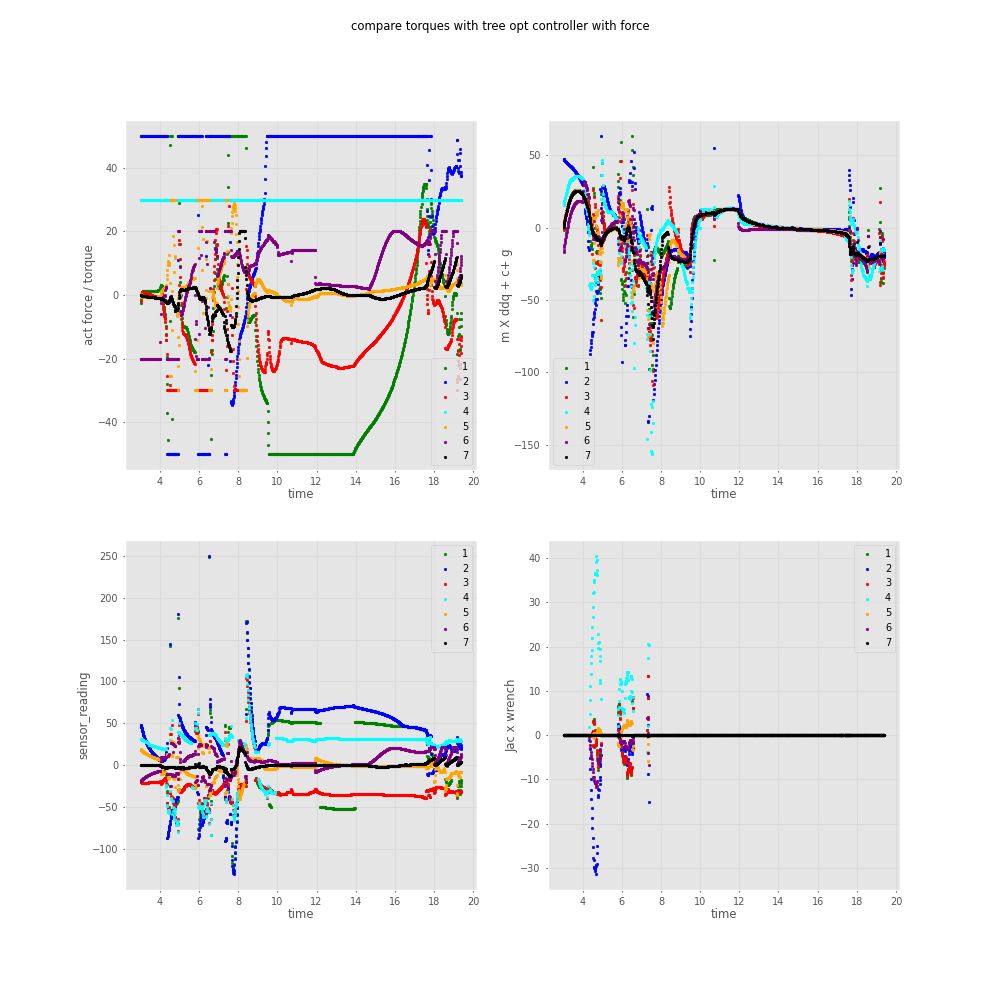
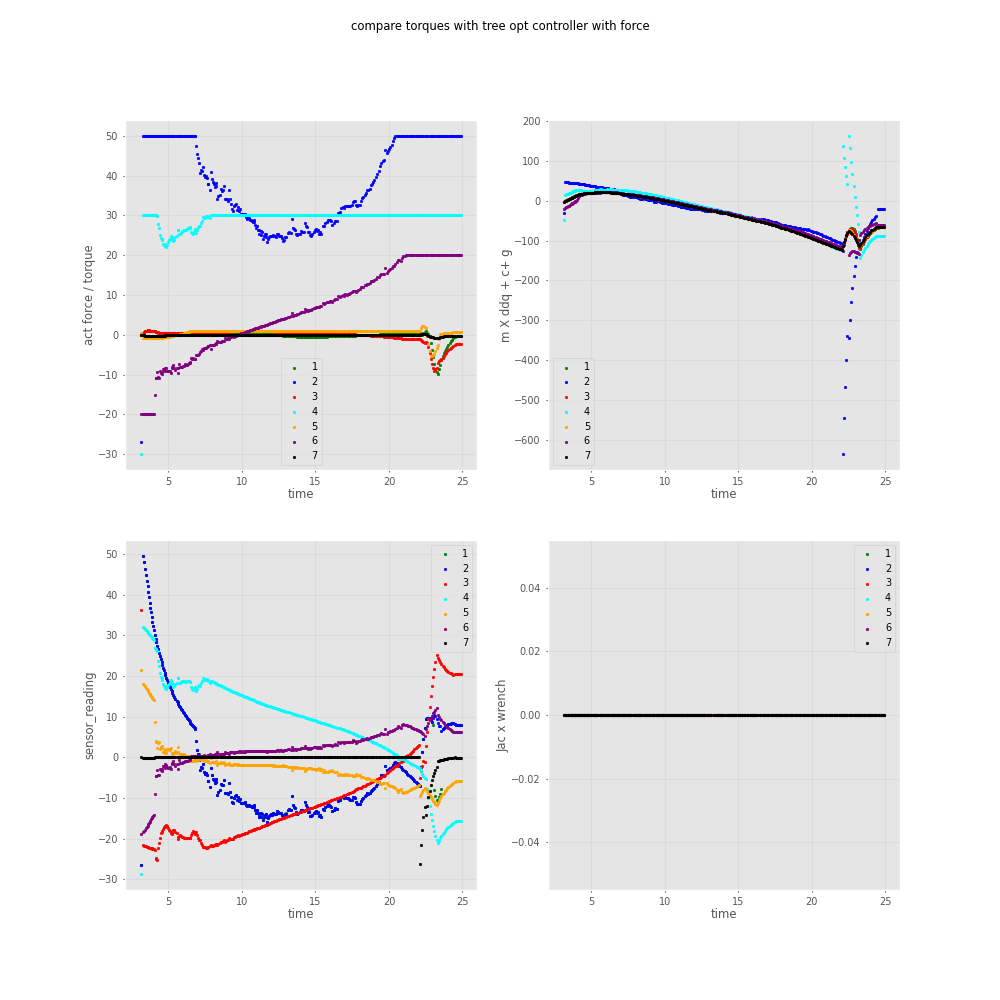
it works

diff --git a/mpc_controller.py b/mpc_controller.py
@@ -37,50 +37,54 @@ class MPC:
         self.calculated_u, self.cost, self.target_u = [], [], []
         self.u = 0
 
-    def get_next_torque(self, wrench, robot, target, target_vel):
+    def get_next_torque(self, wrench, robot, target_pos, target_vel):
 
-        M = robot.get_M_()
+        # M = robot.get_M_()
     
-        J = robot.get_jacobian()
-        A, B = np.zeros((7,7)), np.zeros((7,7))
-        Af, Bf = np.zeros((7,7)), np.zeros((7,7))
-        A, B = np.eye(7), np.eye(7)
+        # J = robot.get_jacobian()
+        A, B = np.zeros((3,3)), np.zeros((3,3))
+        Af, Bf = np.zeros((3,3)), np.zeros((3,3))
+        A, B = np.eye(3), np.eye(3)
 
-        Af, Bf = np.eye(7), M
+        Af, Bf = np.eye(3), np.eye(3)
 
 
-        target_vel = target_vel + np.dot(np.linalg.pinv(M),( np.dot(J.T, wrench)))
+        target_vel = target_vel + wrench # mass and dt is 1
 
-        f_ref = np.dot(J.T, wrench) 
-        x_ref = target 
+        f_ref = wrench[0:3]
+        x_ref = target_pos 
         T = 2
-        x = cp.Variable((7,T+1))
-        f = cp.Variable((7,T+1))
-        u = cp.Variable((7,T)) # u is joint velocity
+        x = cp.Variable((3,T+1))
+        f = cp.Variable((3,T+1))
+        u = cp.Variable((3,T)) # u is joint velocity
         cost = 0
         constr = []
         R = np.eye(7)
         # P = np.eye(14)
         # q = np.zeros(14)
-        q = robot.get_joint_positions()
+        x0 = robot.get_ee_position()
+
         # q[7:14] = -np.dot(J.T, wrench)
-        P = np.eye(7)*2
-        F = np.eye(7)*1
-        G = np.eye(7)*1
+        P = np.eye(3)*2
+        F = np.eye(3)*100
+        G = np.eye(3)*1
         P = P.T @ P
         G = G.T @G
   
         for t in range(T):
             cost += cp.quad_form(x[:, t + 1] -x_ref, P) + cp.quad_form(f[:, t + 1] -f_ref, F) + cp.quad_form(u[:, t] , G)
-            constr += [x[:, t + 1] == np.dot(A, q )+ B @ (u[:, t])]
+            constr += [x[:, t + 1] == np.dot(A, x0 )+ B @ (u[:, t])]
             constr += [f[:, t + 1] == Bf @ (u[:, t])]
-            constr += [u[:,t] <= np.ones(7)*(1.5)]
-            constr += [u[:,t] >= np.ones(7)*(-1.5)]
+            constr += [u[:,t] <= np.ones(3)*(1.5)]
+            constr += [u[:,t] >= np.ones(3)*(-1.5)]
         problem = cp.Problem(cp.Minimize(cost), constr)
         problem.solve()
         self.target_u.append(target_vel)
         self.calculated_u.append(u[:,0].value)
         self.cost.append(problem.value)
+        force_cost = np.matmul((f[:, 0].value -f_ref).T,np.matmul(F, f[:, 0].value -f_ref) )
+        pos_cost = np.matmul((x[:, 0].value -x_ref).T,np.matmul(P, x[:, 0].value -x_ref) )
+        print(force_cost, pos_cost)
         return u[:,0].value 
 
     def update_wrench_sample(self, wrench):
@@ -139,21 +143,25 @@ class MPC:
             self.prev_u = u[0:7]
             robot.run(u[0:7])
 
-    def resolve_rate_controller(self, robot, target):
+    def resolve_rate_controller(self, robot, desired_ee_vel, robot_ee_pose):
         J = robot.get_jacobian()
         pnv_j = np.linalg.pinv(J)
 
-        target_vel = target
-        q_k = robot.get_joint_positions()
-        dq_k = np.matmul(pnv_j, target_vel)
+        # target_vel = target
+        desired_ee_vel = np.asarray(desired_ee_vel)[0:3]
+        desired_ee_position = robot_ee_pose[3, 0:3] + desired_ee_vel *robot.curr_time
+        # q_k = robot.get_joint_positions()
+        # dq_k = np.matmul(pnv_j, target_vel)
 
-        dt = 1
+        # dt = 1
         wrench = robot.get_ee_wrench()
-        target_pos = q_k  +dq_k *dt
-        dq_ext = self.get_next_torque(wrench, robot, target_pos, dq_k)
-        
-        dq_k =  dq_ext
-        self.target_pos = (q_k+ dq_k*dt)
+        # target_pos = q_k  +dq_k *dt
+        next_ee_vel = np.zeros(6)
+        next_ee_vel[0:3] = self.get_next_torque(wrench[0:3], robot, desired_ee_position, desired_ee_vel)
+        q_curr = robot.get_joint_positions()
+        dq_next = np.matmul(pnv_j, next_ee_vel)
+        # dq_k =  dq_ext
+        self.target_pos = (q_curr+ dq_next)
         curr_end_eff_position = robot.get_ee_position()
         robot.run(self.target_pos)
         self.u = self.target_pos

diff --git a/run_controller.py b/run_controller.py
@@ -110,7 +110,7 @@ def mean_squared_error(x, y):
 if __name__ == '__main__':
     print("testing robot.py setup")
     robot = RoboEnv()
-    Tmax, dT = 10, 1000
+    Tmax, dT = 10, 300
     mpc = MPC(dt=dT)
     curr_robot_position = robot.data.site_xpos[0]
     x, y, z, rx, ry, rz = get_path(curr_robot_position, Tmax, dT)
@@ -122,9 +122,9 @@ if __name__ == '__main__':
     ee_position = robot.get_ee_position()
     print("position", ee_position)
     target_position = [ee_position[0] + .3, ee_position[1], ee_position[2]]
-
+    __, _, robot_ee_ini_pose = robot.get_ee_pose()
     for i in range(0, dT):
-        mpc.resolve_rate_controller(robot, target_vel)
+        mpc.resolve_rate_controller(robot, target_vel, robot_ee_ini_pose)
 
     time_arr = np.asarray(mpc.time)
     act = np.asarray(mpc.act)
